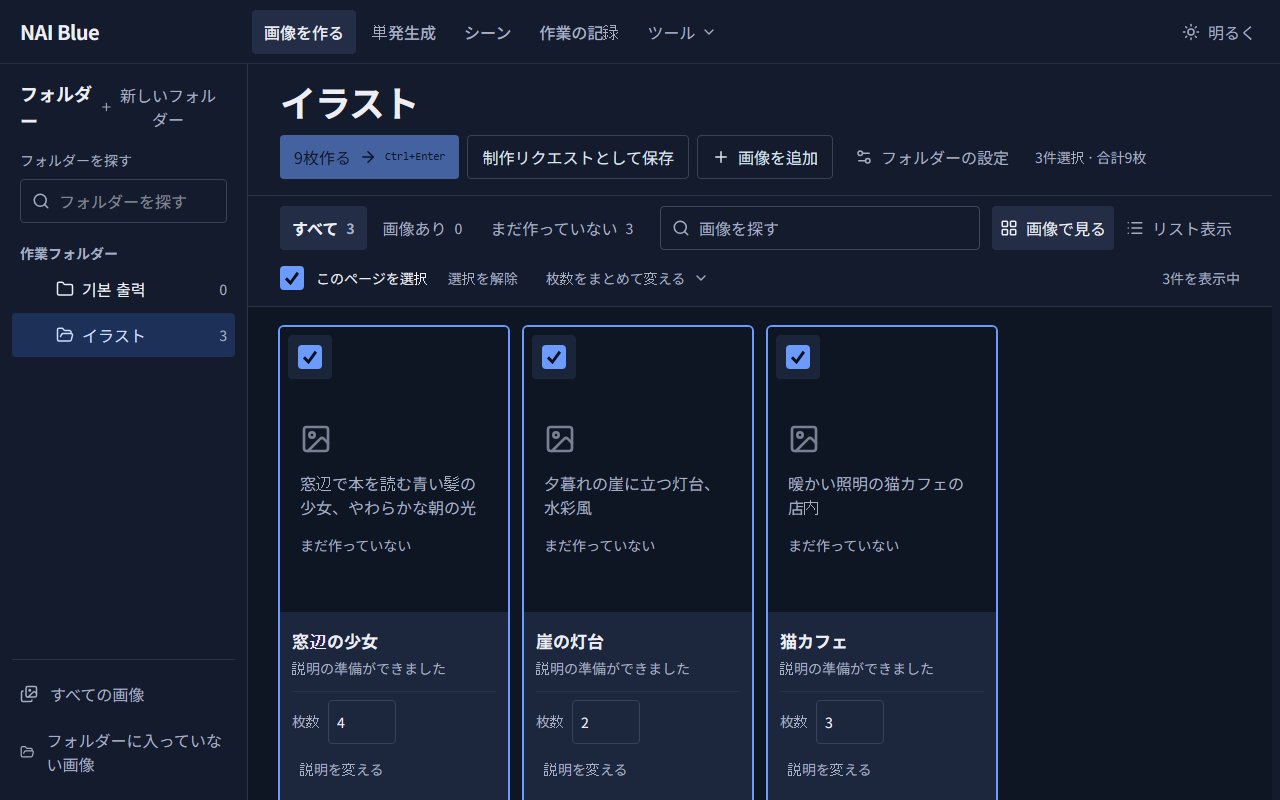
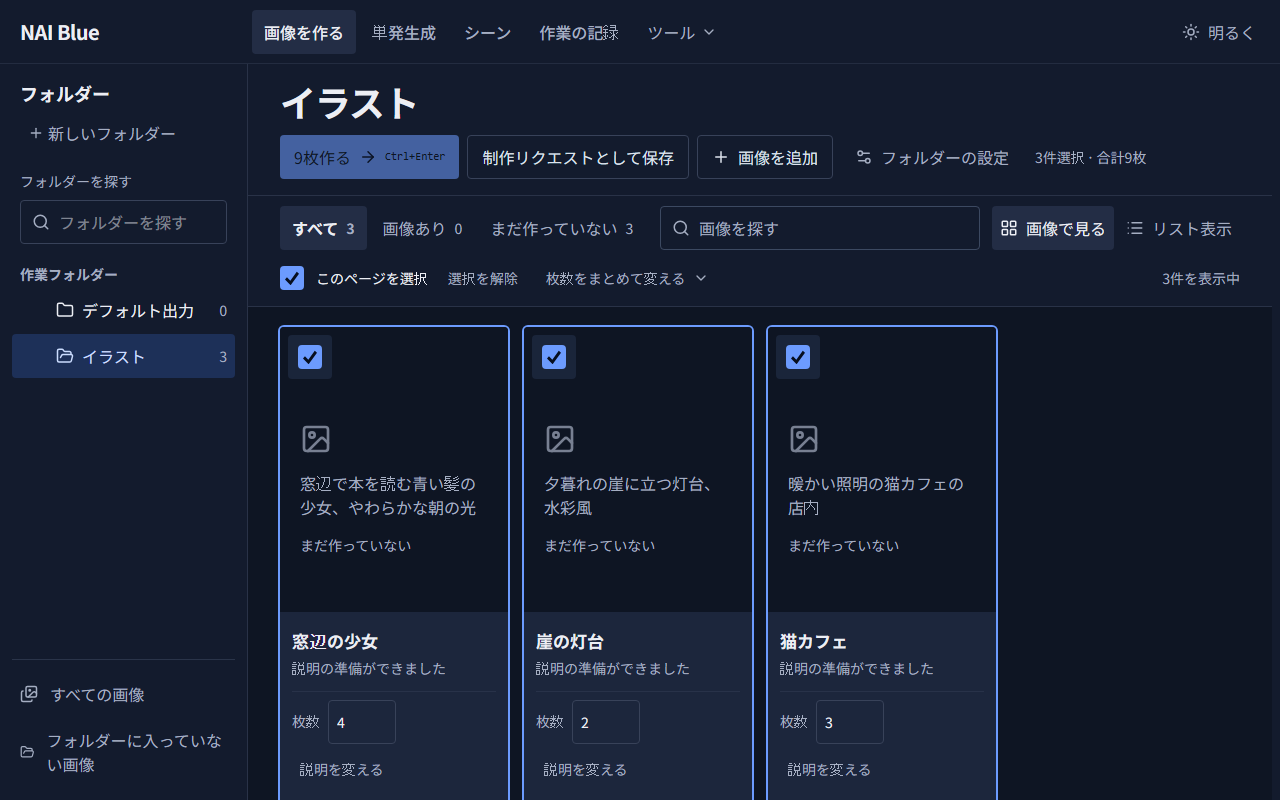
docs: 번역 수정 뒤의 스크린샷과 인덱스 갱신
영어·일본어 캡처에 남아 있던 한국어 기본 이름이 사라졌다(이미지 만들기의
폴더 레일은 "Default output"/"デフォルト出力", 단건 생성의 프리셋 이름은
"Default"/"デフォルト"). 일본어 폴더 레일 머리글도 낱말 중간에서 끊기지
않는다. 단건 생성 세 장은 시드가 매번 달라 함께 바뀐다.

캡처 스크립트는 그대로 언어별 이름의 폴더에서 찍는다. 그 이유를 적은
주석이 이제 사실이 아니어서(기본 폴더 이름이 번역된다) 고쳤다.

docs/README.md에 미번역 문구 정리 줄과, main이 1.5.1로 올라가 있고
태그는 아직 없다는 것을 적었다.

검증: npm run docs:screenshots로 9장을 다시 만들고 일본어 이미지 만들기와
영어 단건 생성 화면을 눈으로 확인했다.

Changed region(s): [[0.0, 0.0938, 0.1875, 0.5]]

diff --git a/docs/README.md b/docs/README.md
@@ -5,7 +5,7 @@
 ## 지금 상태
 
[1 lines of base64/hex data omitted]
-- 릴리즈: 1.5.0(태그 `v1.5.0`)은 2026-11-27 기준 데스크톱 자산까지 올라간 Draft이고 Android 서명 승인 뒤 게시된다. 절차는 [RELEASING.md](../RELEASING.md).
+- 릴리즈: 1.5.0(태그 `v1.5.0`)은 2026-11-27 기준 데스크톱 자산까지 올라간 Draft이고 Android 서명 승인 뒤 게시된다. `main`은 1.5.1로 버전을 올려 두었고 태그는 아직 없다. 절차는 [RELEASING.md](../RELEASING.md).
 - MCP 어댑터는 이 체크아웃의 최신 커밋을 쓴다. 소스가 바뀌면 기존 MCP 연결을 다시 연결한다.
 
 | 주제 | 문서 | 상태 |
@@ -16,7 +16,8 @@
 | Scene의 Precise Reference와 프리셋 보관 | [ADR-019](./architecture/ADR-019-scene-precise-references-and-preset-archive.md) | 사용본. 보관함 화면과 레퍼런스를 묶은 실제 생성은 미확인 |
 | V5 Precise Reference | [ADR-020](./architecture/ADR-020-v5-precise-reference.md) | 사용본. NovelAI에 실제로 보낸 생성과 설정 창은 미확인 |
 | 화면 감사 개선 | [의도](./의도/화면%20감사%20개선.md), [구현 계획](./의도/화면%20감사%20개선%20구현%20계획.md) | 사용본. 영어·일본어 헤더 보완은 1.5.0부터 |
-| 의존성 일괄 갱신(Rust 1.93, Tauri 2.12) | 커밋 `f369055`~`18ef534` | 검증중. 설치본 동작과 macOS 빌드는 미확인, 1.5.0에는 없음 |
+| 의존성 일괄 갱신(Rust 1.93, Tauri 2.12) | 커밋 `f369055`~`18ef534` | 검증중. 설치본 동작과 macOS 빌드는 미확인, 1.5.1부터 |
+| 영어·일본어 미번역 문구 정리 | `src/i18n/locales/`, `src/presentation/folders/default-names.ts` | 검증중. 빠져 있던 번역 키와 R2 설정 화면, 기본 폴더·프리셋 이름 표시를 고쳤다. 캐릭터 로테이션, 검토 미리보기, 오류 문구 등은 아직 한국어로 박혀 있다. 1.5.1부터 |
 
 진행 중인 큰 작업은 [의도 인덱스](./의도/INDEX.md)에 있다.
 
